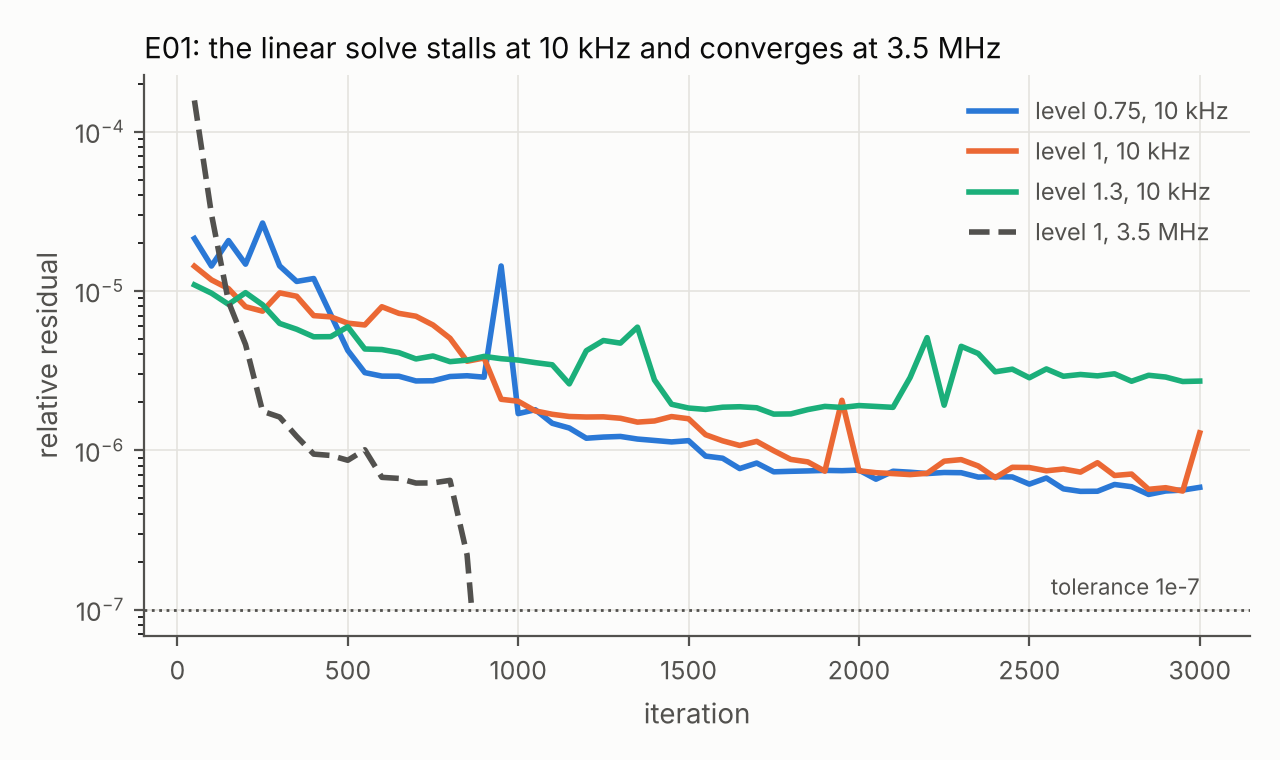
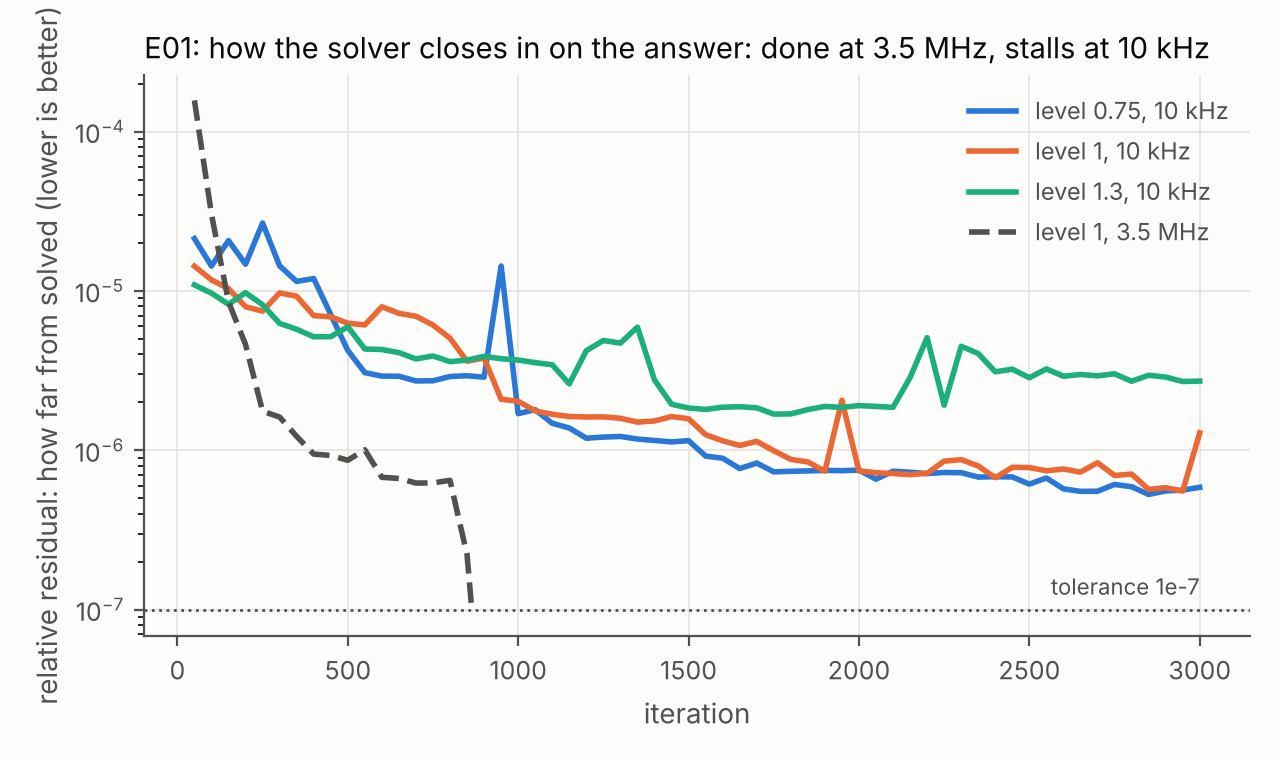
Elmer results: E01 and E02 in plain words, charts with plain labels
Each of E01 and E02 opens with what the test is and a table of what each
number means against what Elmer gave; the charts say in words what they
show.

Changed region(s): [[0.1562, 0.0303, 0.9375, 0.0908], [0.0312, 0.0, 0.0625, 0.6355], [0.0312, 0.6658, 0.0625, 0.9382]]

diff --git a/docs/wiki/Elmer-FEM-Test-Board-Results.md b/docs/wiki/Elmer-FEM-Test-Board-Results.md
@@ -12,6 +12,23 @@ mesh's size, the time, the memory and the solver's last residual of every solve,
 One circular trace, 10 mm in radius to its centre line, 0.5 mm wide and 35 µm thick, opened by a
 0.2 mm gap where the bridge puts its two electrodes. Elmer's circuit drives 1 A through it.
 
+### In Short
+
+E01 is one copper loop on a board, the simplest coil there is. Its inductance L (how much magnetic
+field 1 A makes, which sets the voltage a changing current induces) and its resistance R have textbook
+formulas. Elmer drives 1 A through the loop and reads both back:
+
+| What | What it means | The formula | Elmer |
+|---|---|---|---|
+| L at 10 kHz | the loop's inductance | 55.99 nH | 54.27 nH on the finest mesh, −3.1 %; −0.46 % with a finer mesh in the air round the copper |
+| R at 10 kHz | its resistance, the current spread evenly through the copper | 61.20 mΩ | 61.52 mΩ, +0.5 % |
+| R at 3.5 MHz | the current crowds to the trace's edges, so R rises | no exact formula | 79.25 mΩ, 29 % above the 10 kHz value |
+| L, two ways | from the circuit's voltage and from the energy of the whole field | the two must agree | within 0.05 % |
+
+The 3 % is the mesh in the air round the copper, not the bridge: a finer air mesh takes L to within
+0.5 % of the formula, and the two ways of reading L agree, so the electrodes and Elmer's circuit
+measure what the field holds.
+
 | Item | Value |
 |---|---|
 | Run | 15 and 16 November 2026, Elmer 26.2 (`a19504a`), gmsh 4.15.2, KESE 3.4.0 |
@@ -73,6 +90,20 @@ coarse.
 
 E01's loop twice, TX on F.Cu and RX on B.Cu, 1.565 mm apart. TX carries 1 A, RX is open, so the
 voltage across RX's gap gives M. E02 runs at most 1500 iterations.
+
+### In Short
+
+E02 puts a second loop right under the first. A current in the top loop (TX) induces a voltage in
+the bottom one (RX), and the ratio is their mutual inductance M: the same coupling that carries the
+coil boards' signal from the TX to SIN and COS.
+
+| What | What it means | The formula | Elmer |
+|---|---|---|---|
+| M at 10 kHz | how strongly the two loops couple | 24.13 nH (Maxwell) | 23.38 nH, −3.1 %; −1.1 % with a finer mesh in the air |
+| TX's L beside the open RX | an open loop carries no current, so it must leave L alone | E01's 54.20 nH | 54.18 nH |
+| TX's R at 3.5 MHz | eddy currents in the RX trace take a little power from the TX | a little above E01's 79.25 mΩ | 80.75 mΩ |
+
+### Expected Against What Came Out
 
 | Quantity | Reference | Level 0.75 | Level 1 |
 |---|---|---|---|
